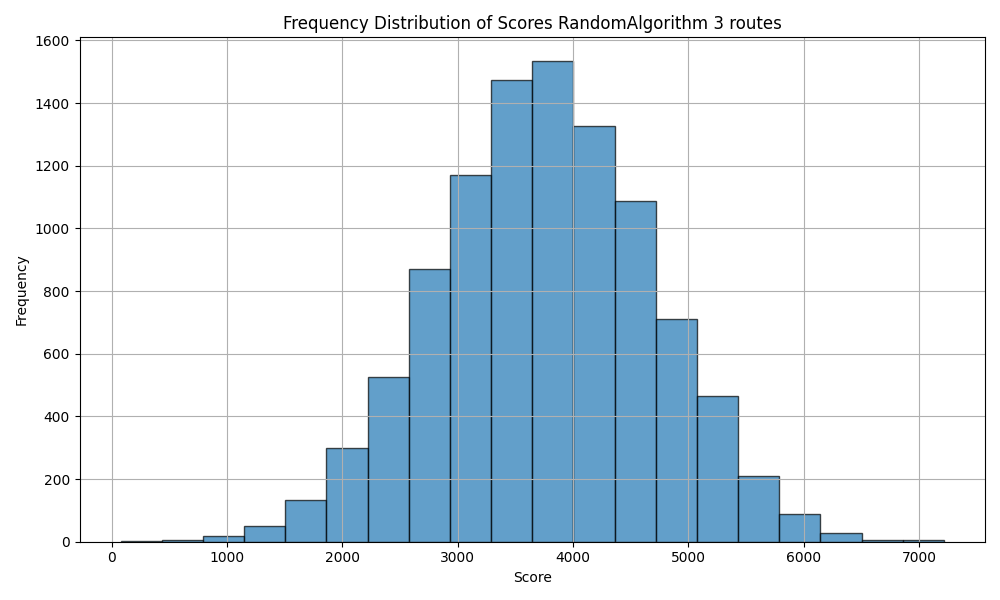
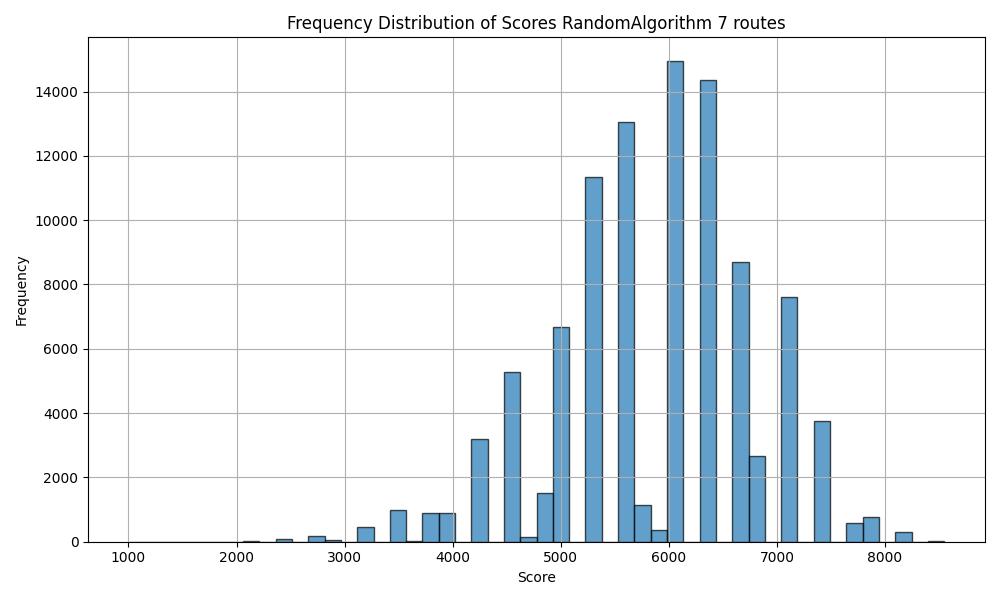
frequency plaatjes

diff --git a/parent/code/experiments/experiments.py b/parent/code/experiments/experiments.py
@@ -2,9 +2,8 @@
 import numpy as np
 
 # Local imports
-from parent.code.algorithms.random_algorithm import RandomAlgorithm
-from parent.code.algorithms.finnsroutes import Finn
 from parent.code.algorithms.algorithm import Algorithm
+from parent.code.classes.station_class import Station
 from parent.code.classes.railnl import RailNL
 from parent.code.algorithms.score import Score
 from parent.code.algorithms.random_v2 import Randomv2
@@ -21,7 +20,18 @@ class Experiment:
         """
         self.algorithm_class: "Algorithm" = algorithm_class
         self.map: str = map
+
+        # Get the total stations and connections and create an index mapping
+        total_connections = list(RailNL(self.map).get_total_connections())
+        self.connection_indices = {tuple(sorted((conn[0].name, conn[1].name))): idx for idx, conn in enumerate(total_connections)}
+        self.count_connections_used = np.zeros(len(total_connections))
+        self.connection_labels = [f"{conn[0].name} - {conn[1].name}" for conn in total_connections]
+
+        self.total_stations = list(RailNL(self.map).stations_dict().keys())
+        self.station_indices = {station: idx for idx, station in enumerate(self.total_stations)}
+        self.count_stations_used = np.zeros(len(self.total_stations))
         
+
         # Set default export directory (for export of results to CSV etc.)
         self.export_directory: str = "parent/code/experiments/results"
 
@@ -49,15 +59,33 @@ class Experiment:
             # Add score to array at correct positions
             self.scores[i] = score
 
+            # Count each connection used
+            used_connections = algorithm_instance.get_total_connections_used()
+            for connection in used_connections:
+                # Normalize the connection tuple to match the total connections format
+                normalized_connection = tuple(sorted(connection[:2]))
+                if normalized_connection in self.connection_indices:
+                    self.count_connections_used[self.connection_indices[normalized_connection]] += 1
+                else:
+                    print(f"Warning: Connection {normalized_connection} not found in connection_indices.")
+
+            # Count each station used
+            used_stations = algorithm_instance.get_stations_used()
+            
+            if used_stations is not None:
+                for station in used_stations:
+                    if station.name in self.station_indices:
+                        self.count_stations_used[self.station_indices[station.name]] += 1
+                    else:
+                        print(f"Warning: Station {station.name} not found in station_indices.")
+            else:
+                print("Warning: get_stations_used() returned None.")
+
         assert np.count_nonzero(self.scores) == iterations, "Not all scores have been filled in, bug in run_experiment."
         return self.scores
     
     def average_score(self) -> float:
-        total = 0
-        for score in self.scores:
-            total += score
-        return total / len(self.scores)
-
+        return np.mean(self.scores)
     
     def write_scores_to_csv(self, filename: str) -> None:
         """

diff --git a/parent/main.py b/parent/main.py
@@ -16,13 +16,13 @@ if __name__ == "__main__":
     # Test Random Algorithm
     random_algorithm = RandomAlgorithm(data)
     random_score = Score(random_algorithm)
-    random_algorithm.make_picture()
+    #random_algorithm.make_picture()
     print(random_algorithm.output())
     print(f"Random Algorithm Score: {random_score.calculate()}")
 
     # Perform experiment with RandomAlgorithm and collect scores
     random_experiment = Experiment(RandomAlgorithm, "Holland")
-    scores = random_experiment.run_experiment()
+    scores = random_experiment.run_experiment(100000)
     average = random_experiment.average_score()
     print(f"average score: {average}")
 
@@ -30,7 +30,7 @@ if __name__ == "__main__":
     # Plotting the frequency distribution of scores
     plt.figure(figsize=(10, 6))
     plt.hist(scores, bins=50, edgecolor='black', alpha=0.7)
-    plt.title('Frequency Distribution of Scores RandomAlgorithm N routes (0-7)')
+    plt.title('Frequency Distribution of Scores RandomAlgorithm 7 routes')
     plt.xlabel('Score')
     plt.ylabel('Frequency')
     plt.grid(True)
@@ -38,15 +38,32 @@ if __name__ == "__main__":
     plt.savefig("freq.png")
 
     # Plotting frequency distributions of connections used
-    plt.figure(figsize=(10, 6))
-    plt.hist(connections, bins=50, edgecolor='black', alpha=0.7)
-    plt.title('Frequency Distribution of connections Random Algorithm')
+    total_connections = RailNL("Holland").get_total_connections()
+    connection_labels = [f"{c[0].name} - {c[1].name}" for c in total_connections]
+    
+    plt.figure(figsize=(10, 10))
+    plt.bar(range(len(total_connections)), random_experiment.count_connections_used, tick_label=connection_labels)
+    plt.xticks(rotation=90)
+    plt.title('Frequency Distribution of Connections Used in Random Algorithm')
     plt.xlabel('Connection')
     plt.ylabel('Frequency')
     plt.grid(True)
     plt.tight_layout()
     plt.savefig("freq2.png")
 
+    # Plotting frequency distribution of stations used
+    total_stations = list(RailNL("Holland").stations_dict().values())
+    station_labels = [station.name for station in total_stations]
+
+    plt.figure(figsize=(10, 6))
+    plt.bar(range(len(total_stations)), random_experiment.count_stations_used, tick_label=station_labels)
+    plt.xticks(rotation=90)
+    plt.title('Frequency Distribution of Stations Used in Random Algorithm')
+    plt.xlabel('Station')
+    plt.ylabel('Frequency')
+    plt.grid(True)
+    plt.tight_layout()
+    plt.savefig("freq3.png")
 
     # # Test Greedy Algorithm
     # greedy_alg = Greedy(data)

diff --git a/parent/code/algorithms/algorithm.py b/parent/code/algorithms/algorithm.py
@@ -11,6 +11,7 @@ class Algorithm:
         self.routes: list[Route] = []
         self.total_minutes: int = 0
         self.total_connections_used: set[tuple[str, str, float]] = set()
+        self.stations_used = set()
 
 
     def run(self) -> None:
@@ -59,6 +60,11 @@ class Algorithm:
 
         return set(self.total_connections_used)
     
+    def get_stations_used(self) -> set:
+        for route in self.routes:
+            for station in route.get_stations():
+                self.stations_used.add(station)
+        return self.stations_used
 
     def get_total_minutes(self) -> int:
         """Calculates the total number of minutes used by all the 

diff --git a/parent/code/algorithms/random_algorithm.py b/parent/code/algorithms/random_algorithm.py
@@ -13,7 +13,7 @@ class RandomAlgorithm(Algorithm):
         super().__init__(load) # Inherits everything from ALgorithm class
 
     def run(self) -> None:
-        # N = choice([0, 1, 2, 3, 4, 5, 6, 7])
+        # N = choice([1, 2, 3, 4, 5, 6, 7])
         N = 7 # manipulate
         for _ in range(N):
             time_used = 0
